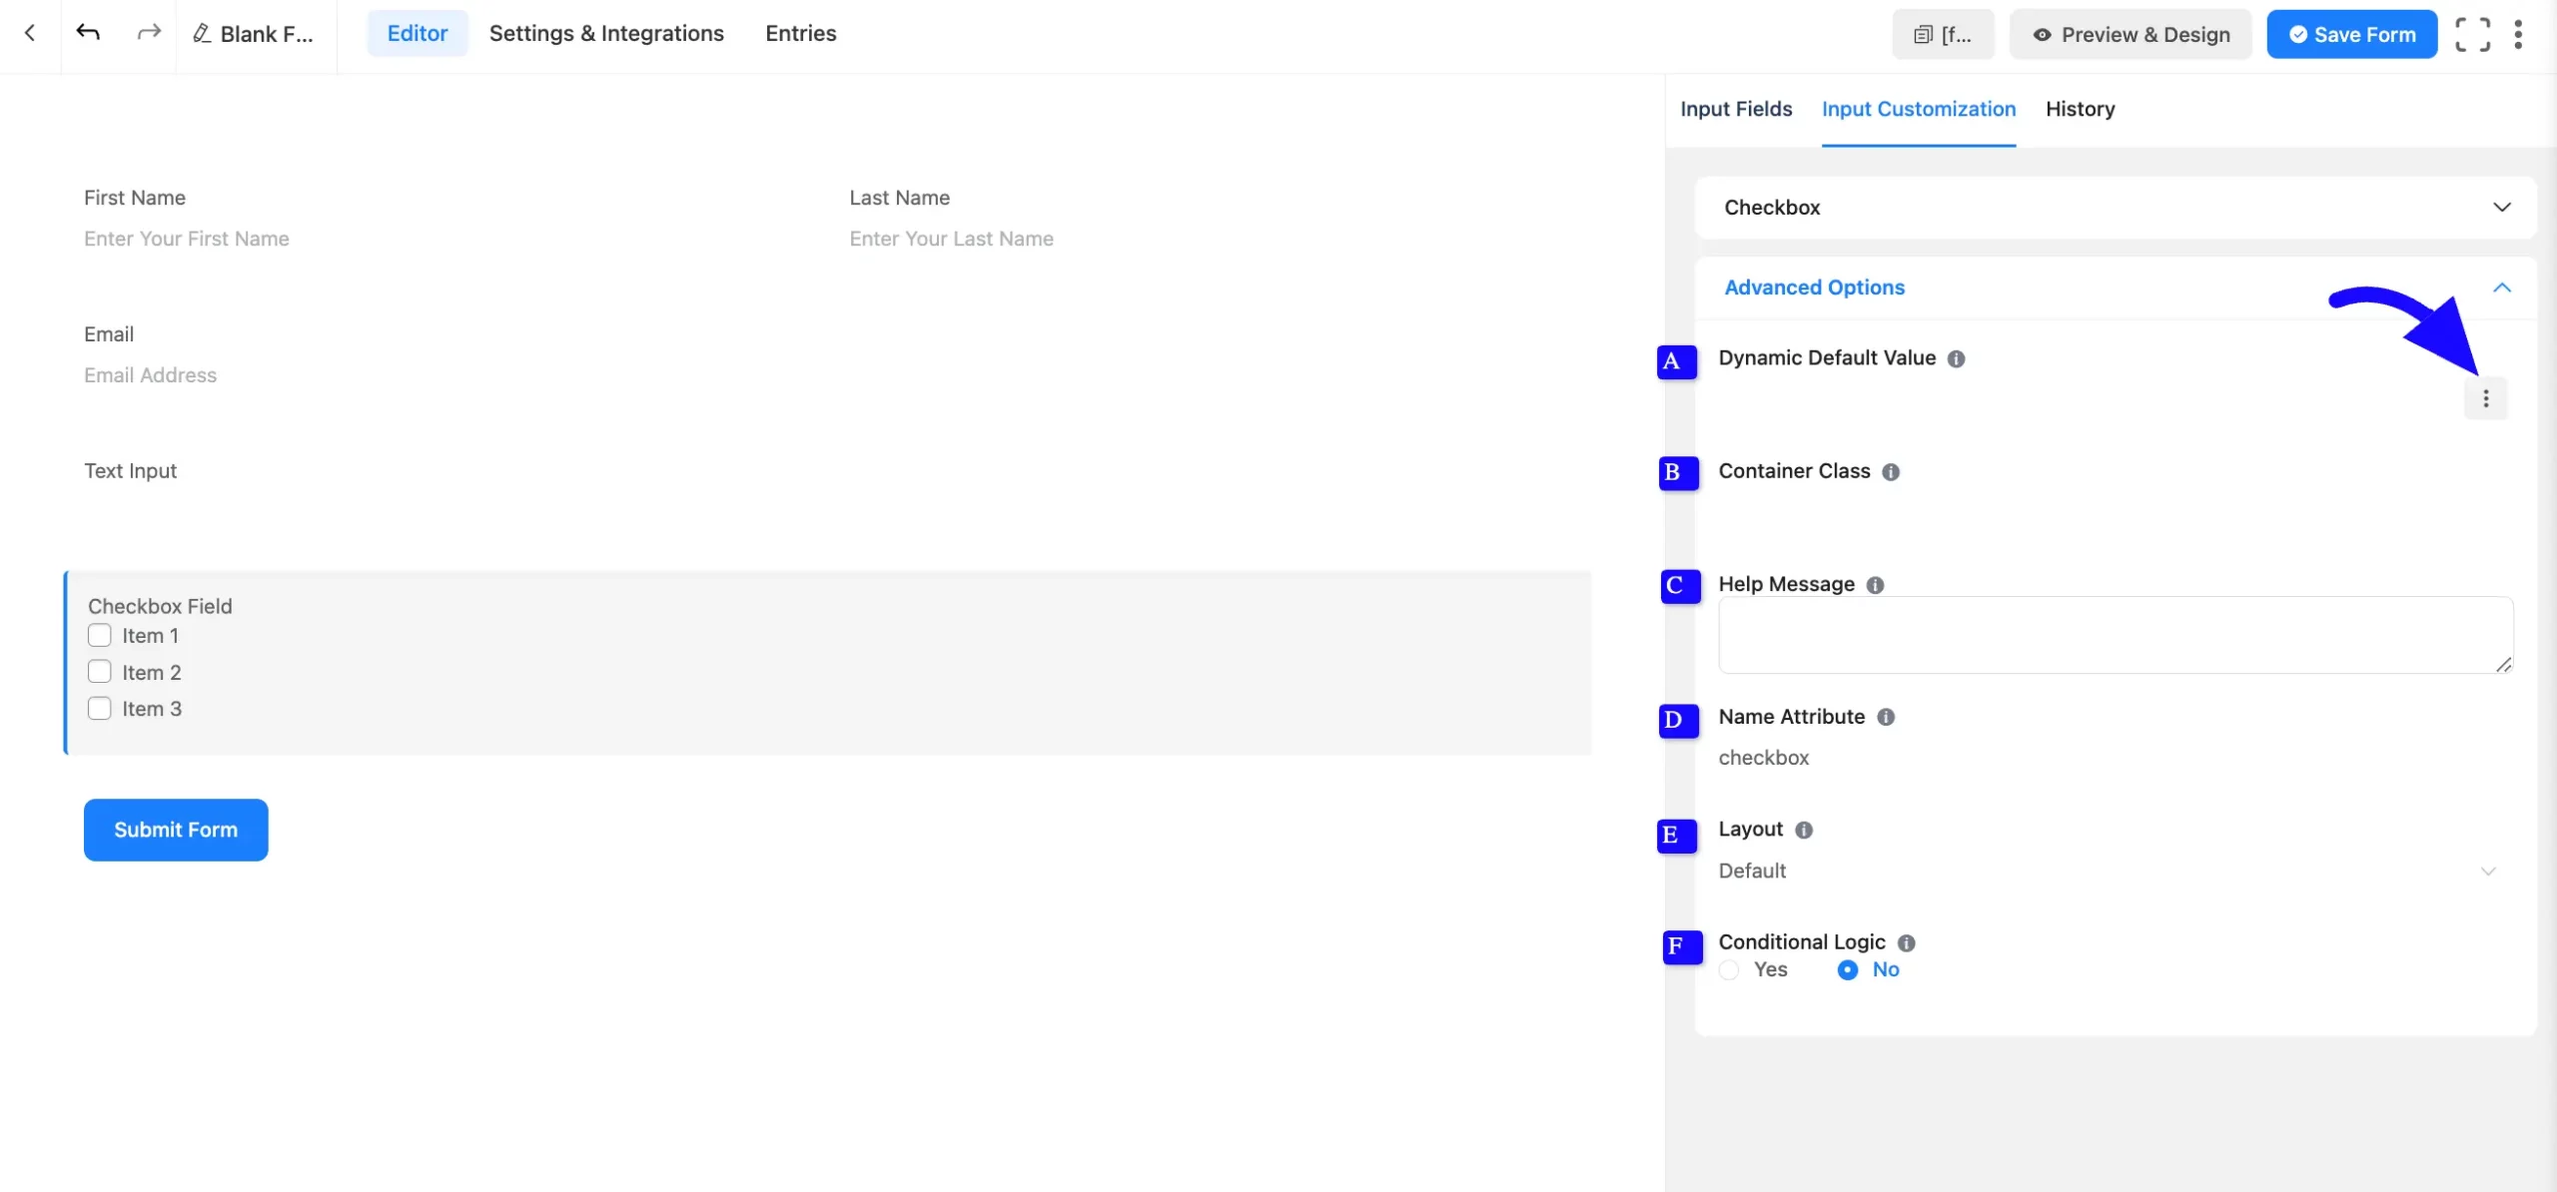
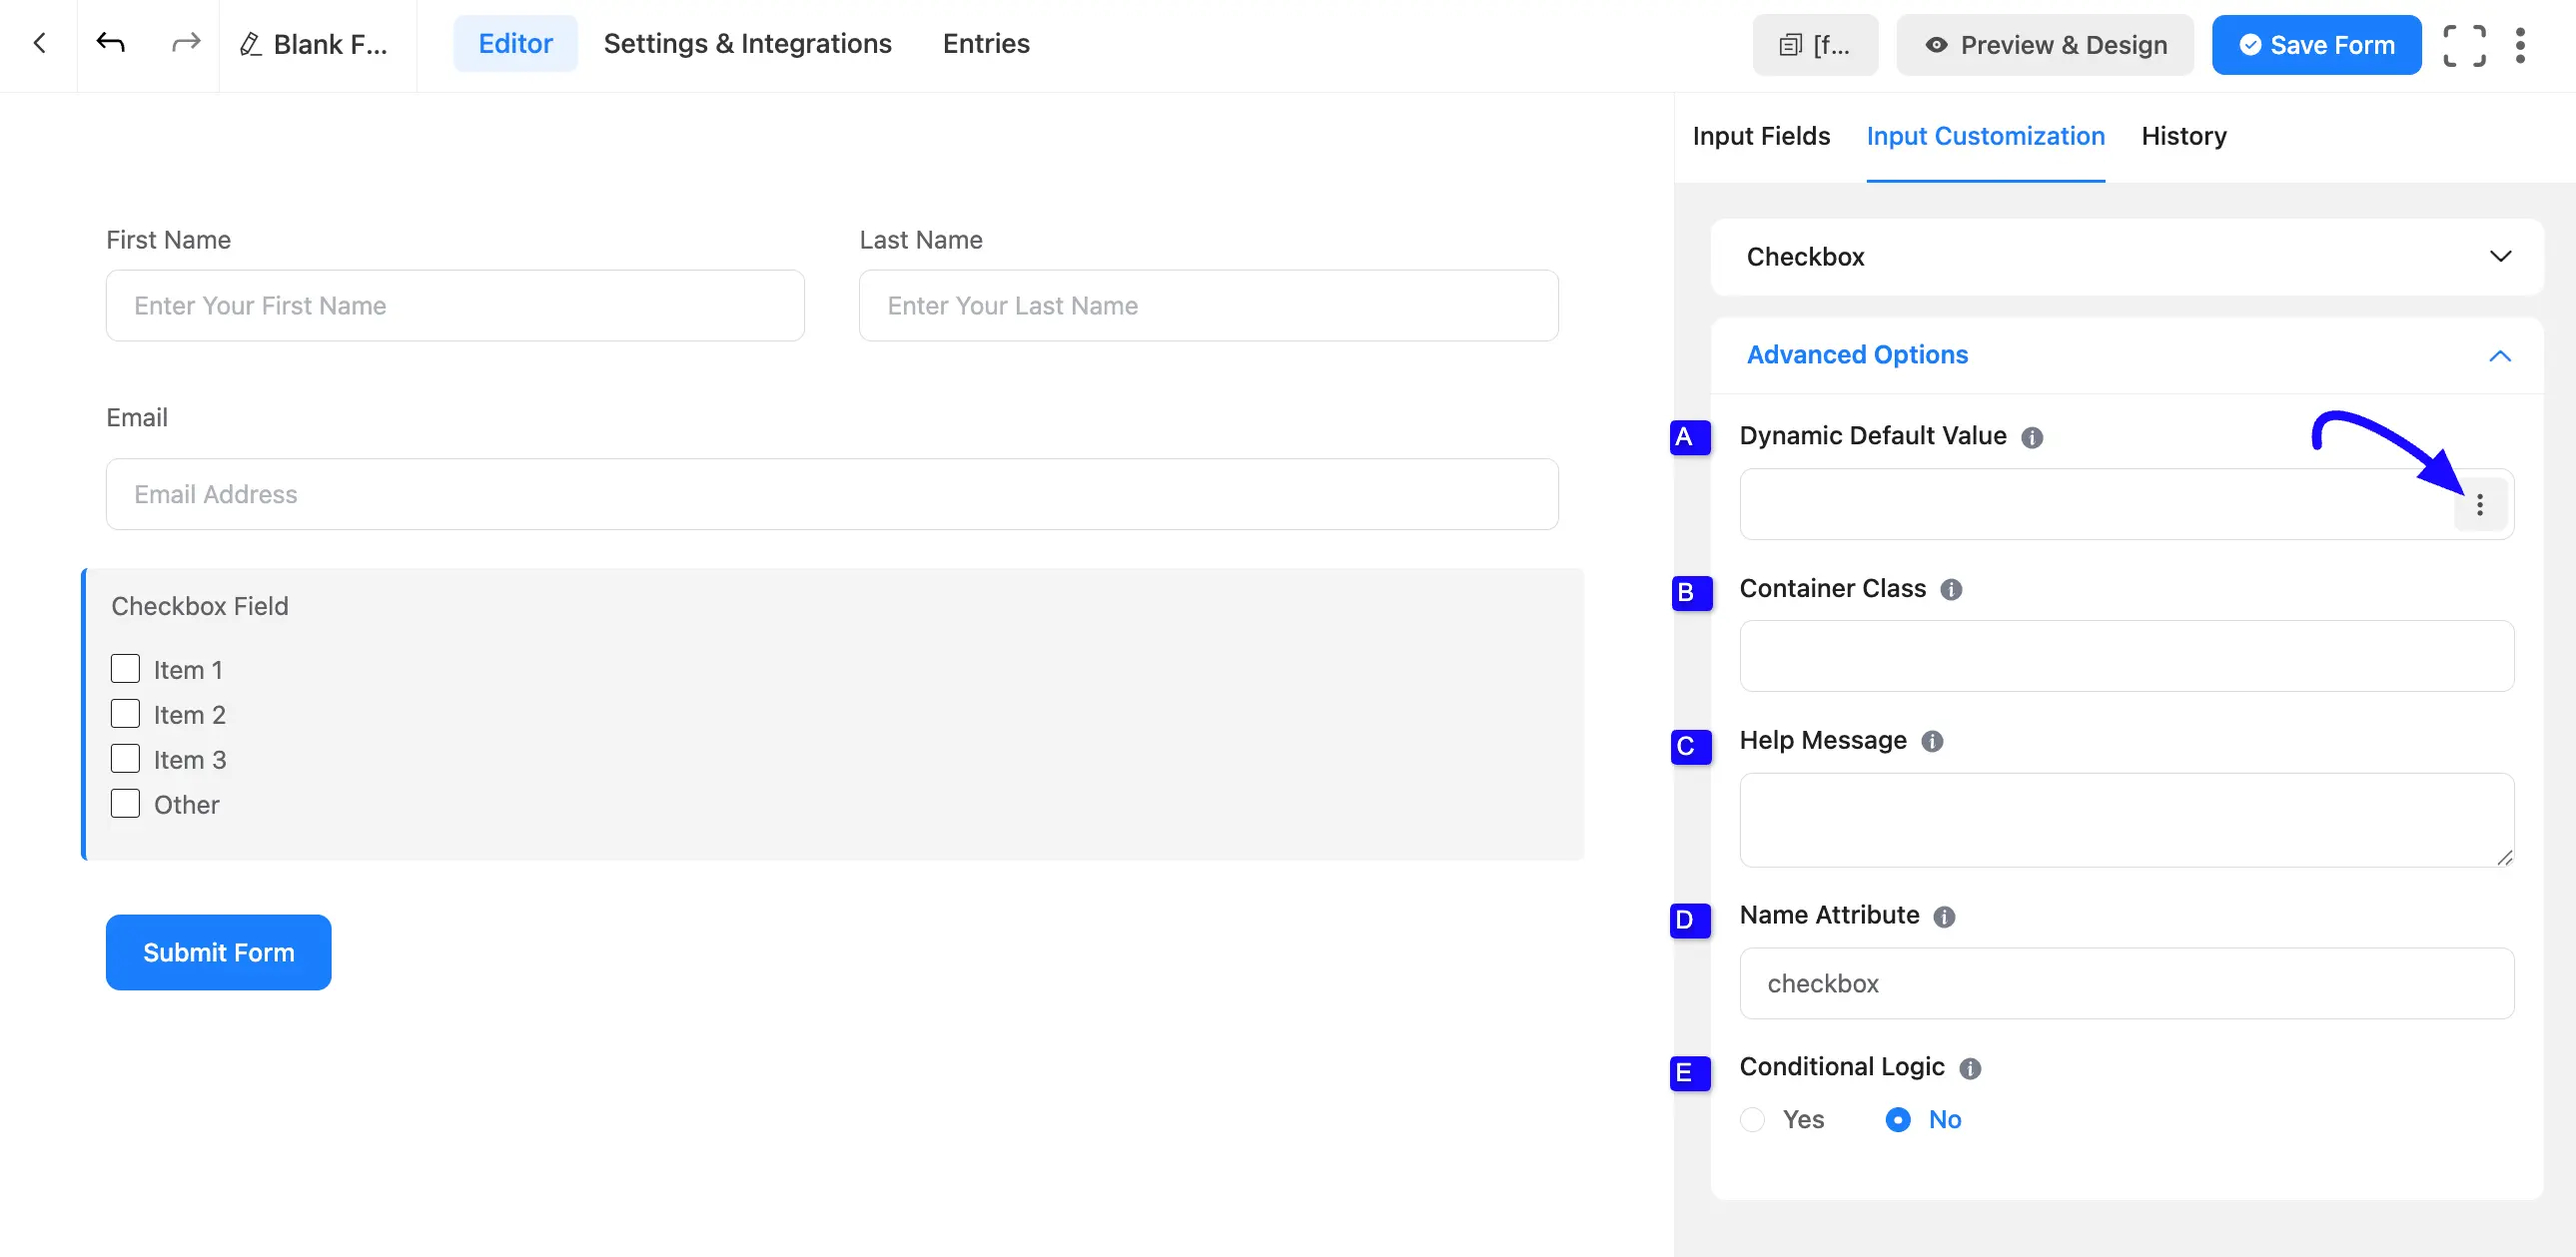
update CheckBox Field

diff --git a/docs/form-fields/general-fields/checkbox-field.md b/docs/form-fields/general-fields/checkbox-field.md
@@ -44,33 +44,47 @@ You will find various settings options for customizing the field. Located in the
 
 **C. Admin Field Label:** The admin field label is a field title displayed only to admin users. This means that you can configure this option to show a different field label for your admin users when they view the form submissions. 
 
-**D. Options:** Define the dropdown options:
+**D. Options:** Define the options users can choose from:
+
+- **Show Values:** Display values for admin ease during submissions.
+
+- **Calc Values:** Assign numeric values to options so you can perform [numeric calculations](/numeric-calculation).
+
+- **Photo:** Use an image for each option instead of plain text.
 
 - **Create Options:** Add the items for users to choose from.
 
 - **Set Default Options:** Checkmark an option to set it as the default selection.
 
-- **Show Values:** Display values for admin ease during submissions.
-
 - **Rearrange Options:** Drag and drop options to reorder them.
 
 - **Add/Delete Options:** Use the Plus icon to add new options or insert options between existing ones.
 
-**E. Show & Calc Value:** Users will get **Show** and **Calc** Values options. You may display your data and perform [numeric calculations](/numeric-calculation) using Show and Calc Values.
-
-Also, you can add photos by clicking on the **Photo** option for the field.
-
-**F. Bulk Edit/Predefined Data Sets:** You can choose from a predefined data set for the dropdown field, so you don’t have to add each item manually.
-
-You can also save time by importing predefined datasets instead of manually adding each option. (Useful for dropdowns like countries or states.)
+- **Bulk Edit/Predefined Data Sets:** Choose from a predefined data set for the field so you don't have to add each item manually. You can also save time by importing predefined datasets instead of manually adding each option. (Useful for dropdowns like countries or states.)
 
 ![Bulk Fluent Forms](/images/form-fields/general-fields/checkbox-field/bulk-scaled.webp)
 
-**G. Shuffle the available options:** You can enable the shuffle of your dropdown list or select field options so that every user sees a randomized option.
+**E. Layout:** Choose a layout for the options. Available layouts include **Vertical**, **Horizontal**, or **Grid-style**.
 
-**H. Required:** Choose the appropriate option from here to determine whether the field should be empty when the user submits your form. 
+**F. Shuffle the available options:** You can enable the shuffle of your dropdown list or select field options so that every user sees a randomized option.
+
+**G. Required:** Choose the appropriate option from here to determine whether the field should be empty when the user submits your form.
+
+**H. Max Selection:** Set the maximum number of options a user is allowed to select. Leave it blank for no limit.
+
+**I. Min Selection:** Set the minimum number of options a user must select before submitting the form. Leave it blank if a minimum isn't required.
 
 ![Basic Options](/images/form-fields/general-fields/checkbox-field/Basic-options-04-scaled.webp)
+
+**J. Enable "Other" Option:** Turn this on to add an editable **Other** choice at the end of the list, letting users type in an answer that isn't part of your predefined options.
+
+- **Other Option Label:** The label shown for the extra choice. Defaults to "Other."
+
+- **Other Option Placeholder:** The placeholder text shown inside the **Other** text input.
+
+- **Other Option Required Message:** The validation message shown if a user selects **Other** but leaves the text input empty.
+
+![Basic Options](/images/form-fields/general-fields/checkbox-field/enable-other-option.webp)
 
 ### Advanced Options
 
@@ -84,9 +98,7 @@ Advanced settings allow further customization to meet specific use cases.
 
 **D. Name Attribute:** The input field’s name attribute is the HTML equivalent of the same name. You don’t need to modify this.
 
-**E. Layout:** Choose a layout for the options. Available layouts include **Vertical**, **Horizontal**, or **Grid-style**.
-
-**F. Conditional Logic:** This option allows you to create specific rules to dynamically hide/show the input field to function conditionally based on your submission values according to your set of conditional logic. To learn more, read [Set up Forms with Conditional Logic in Fluent Forms](/set-up-forms-with-conditional-logic). 
+**E. Conditional Logic:** This option allows you to create specific rules to dynamically hide/show the input field to function conditionally based on your submission values according to your set of conditional logic. To learn more, read [Set up Forms with Conditional Logic in Fluent Forms](/set-up-forms-with-conditional-logic). 
 
 ![Advanced Options](/images/form-fields/general-fields/checkbox-field/advanced-options-05-1-scaled.webp)
 
@@ -112,7 +124,7 @@ First, enable the **Photo** Option from the checkbox field’s options, as shown
 
 ![Photo Fluent Forms](/images/form-fields/general-fields/checkbox-field/photo-08-scaled.webp)
 
-After that, Customize the **Layout** option. Now, navigate **Advanced Options** and select the desired **Button Layout** from the dropdown menu.
+After that, customize the **Layout** option under **Checkbox Field Options** and select the desired **Button Layout** from the dropdown menu.
 
 ![Button Layout Style CheckBox Field](/images/form-fields/general-fields/checkbox-field/button-layout-style-09-scaled.webp)
 
